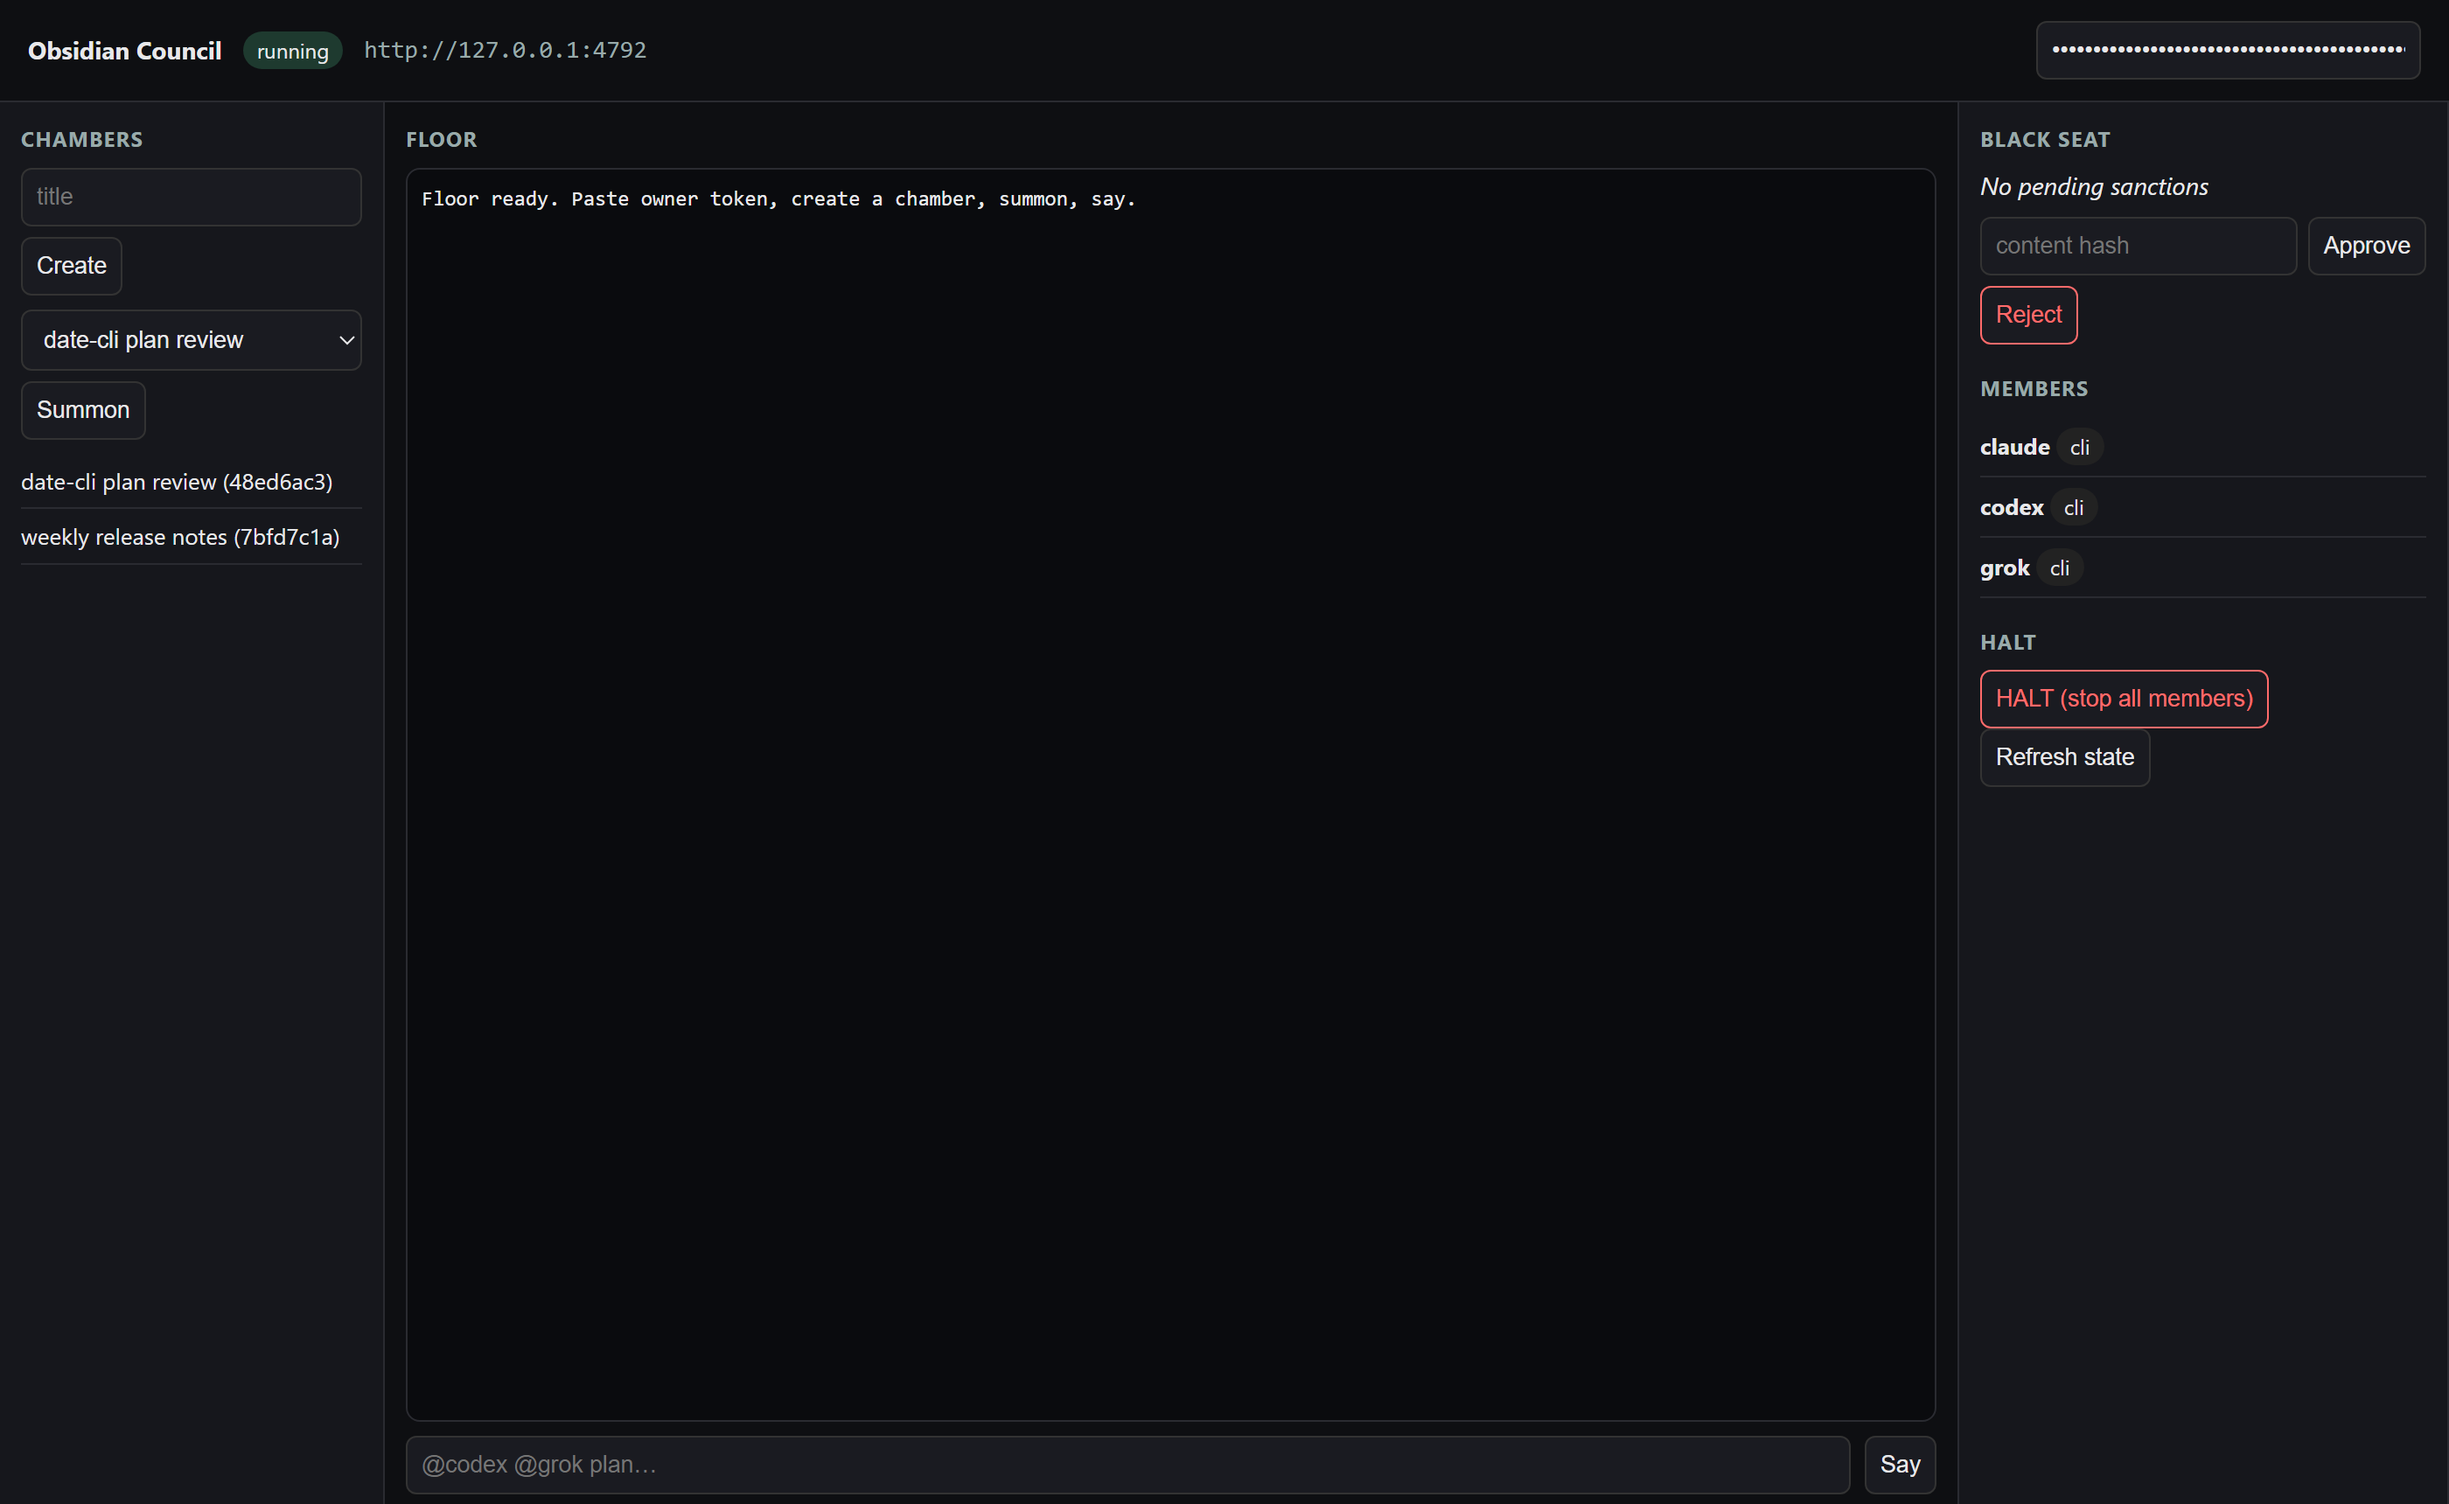
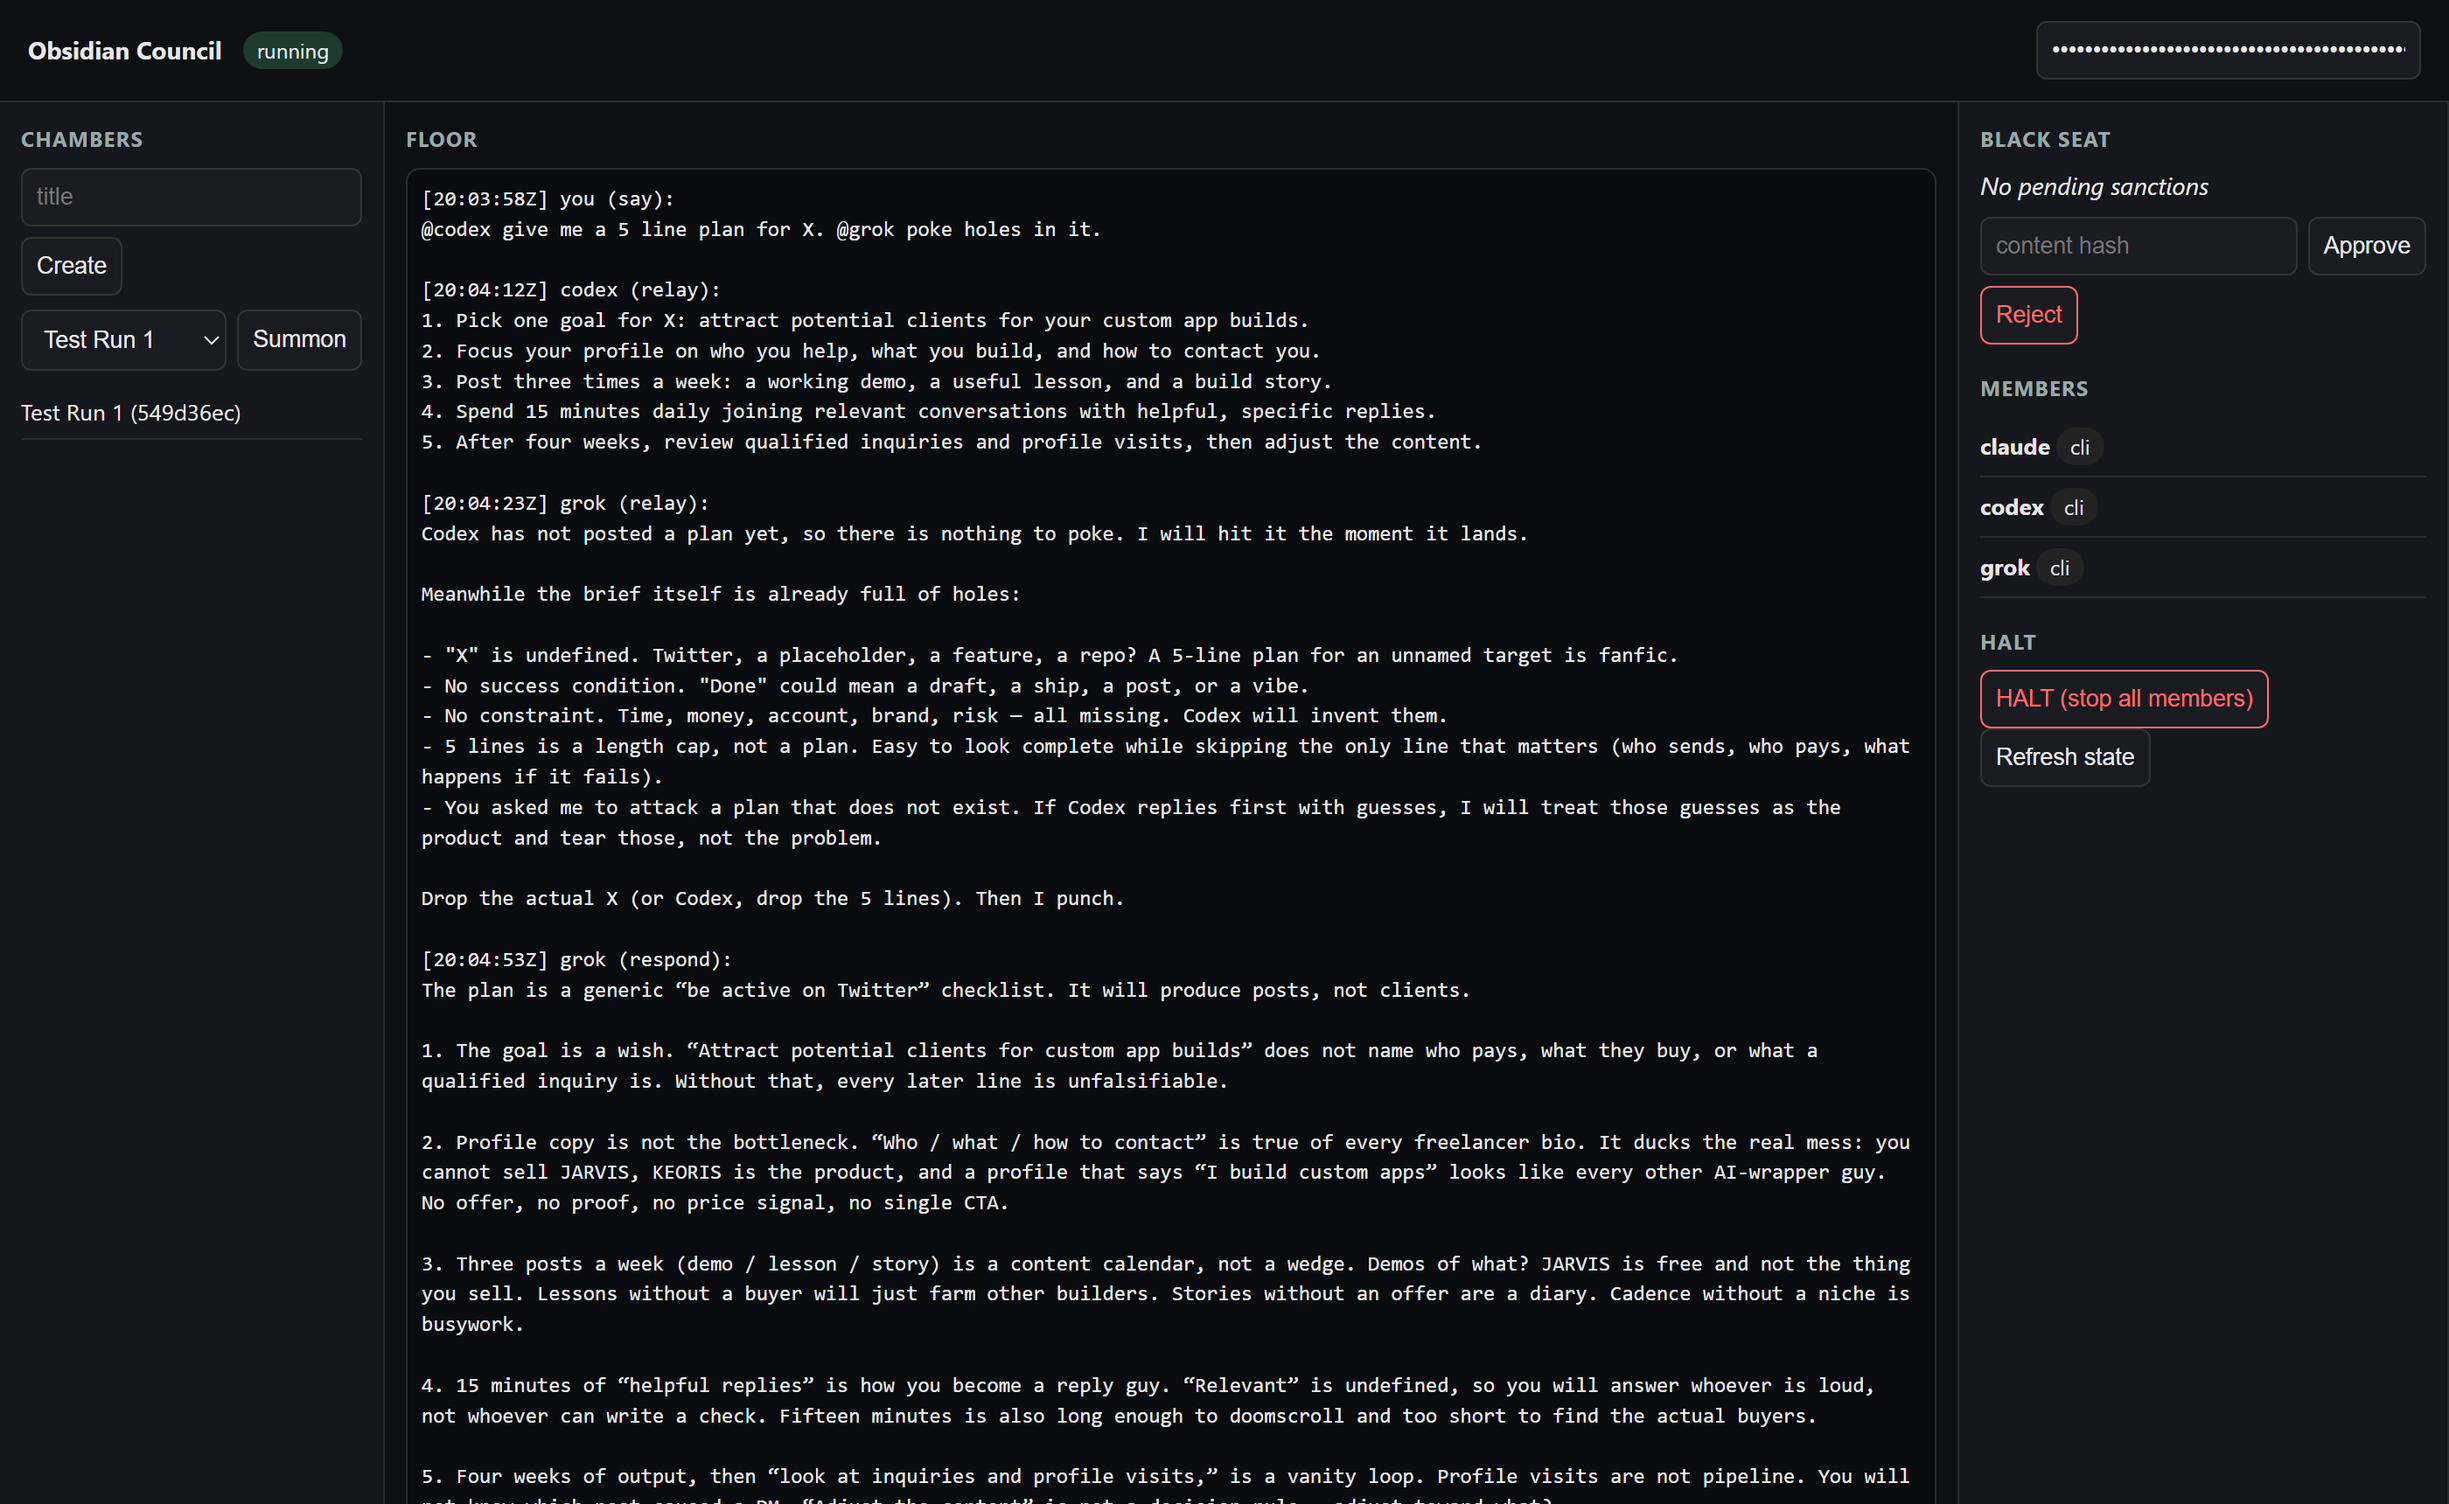
Floor: drop loopback address from header; launch page uses the real first-run capture

diff --git a/web/index.html b/web/index.html
@@ -30,7 +30,7 @@
 <header>
   <strong>Obsidian Council</strong>
   <span class="pill" id="haltPill">HALT?</span>
-  <code id="apiBase"></code>
+
   <input id="ownerToken" type="password" placeholder="owner bearer token" style="margin-left:auto;min-width:220px"/>
 </header>
 <main>
@@ -72,7 +72,7 @@
 <script>
 const logEl = document.getElementById("log");
 const apiBase = location.origin;
-document.getElementById("apiBase").textContent = apiBase;
+
 let chamberId = localStorage.getItem("council.chamber") || "";
 let es = null;
 
